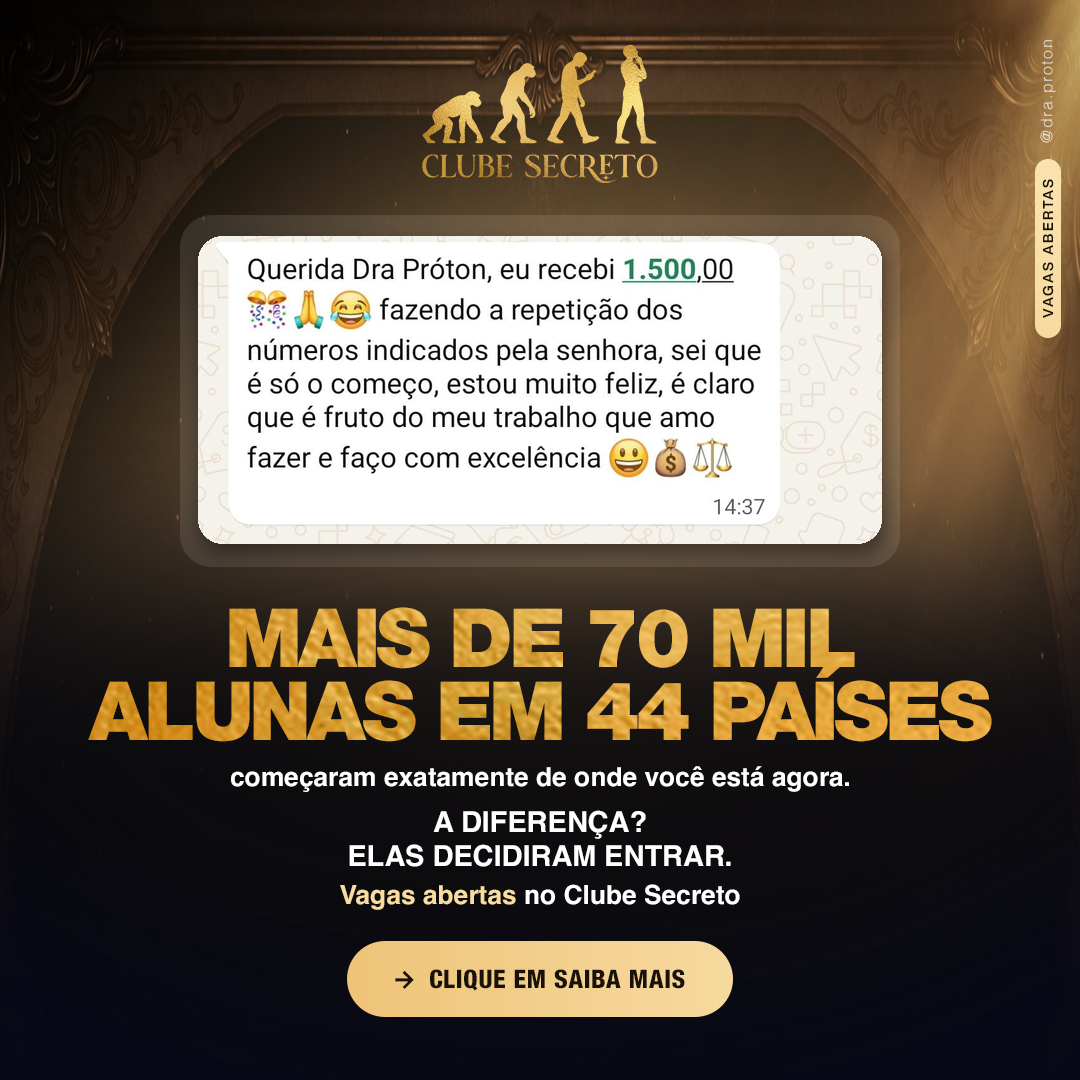
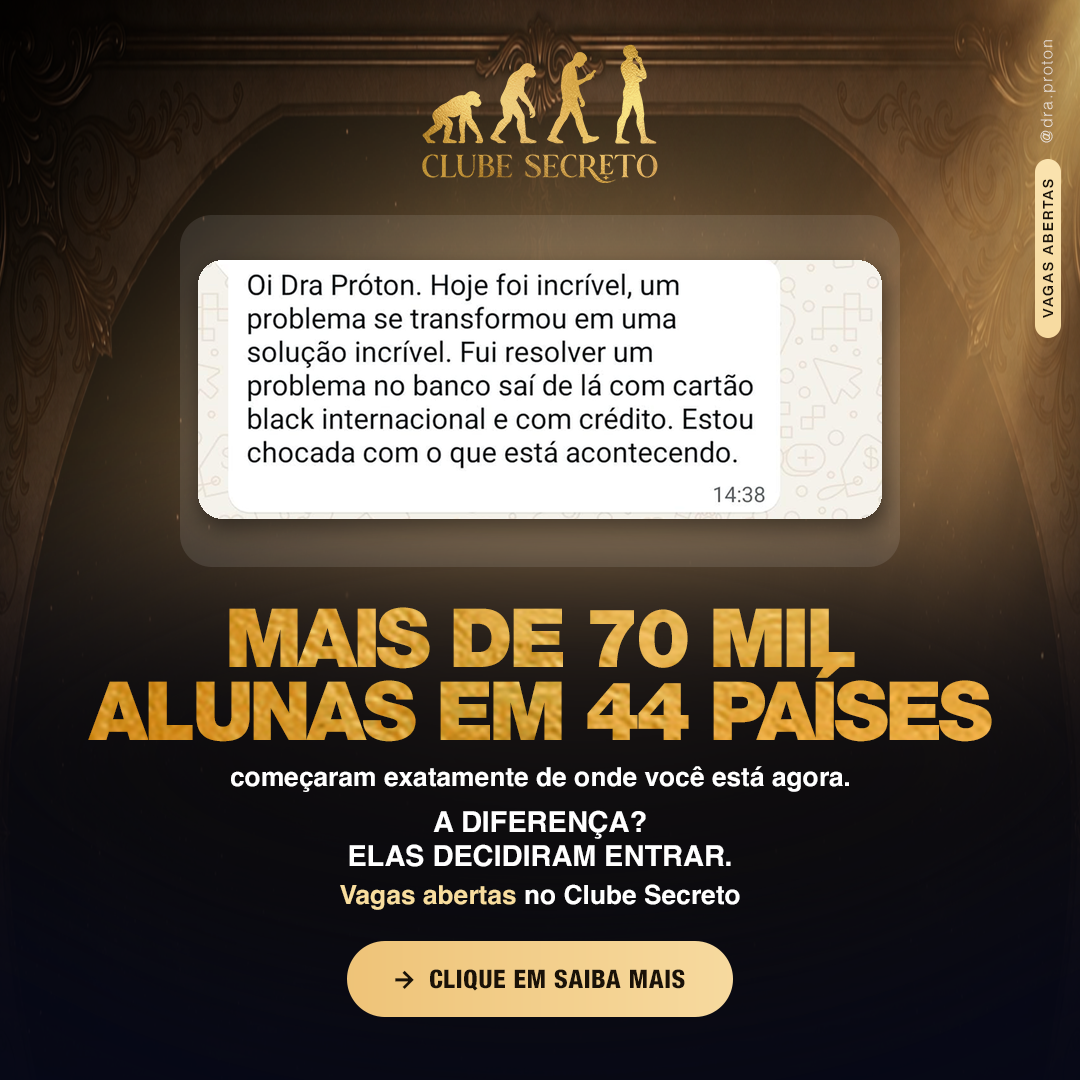
Remove depoimentos de risco para a Meta; arte 12 passa a usar depoimento sem valor
Claude-Session: https://claude.ai/code/session_015uJ2dwisfRgFhLAZFEbZ96

Changed region(s): [[0.1833, 0.2139, 0.825, 0.5194]]

diff --git a/clube-secreto-artes/LEIAME.md b/clube-secreto-artes/LEIAME.md
@@ -7,8 +7,10 @@ As demais artes não tinham valor e não foram mexidas.
 
 Arte 08: "menos de R$100 por mês" trocado por "menos de R$200 por mês".
 
-Arte 12 (depoimento): print de depoimento inserido no quadro. Recorte apenas da bolha da mensagem, sem cabecalho, nome, foto de perfil ou telefone.
+Arte 12 (depoimento): print de depoimento (Silvana) inserido no quadro. Recorte so da bolha da mensagem, sem cabecalho, nome, foto de perfil ou telefone.
 
-## depoimentos-nos-criativos/
-16 stories: criativos 04, 08, 11 e 15 x 4 depoimentos (Viviane/pix de 5 mil, Camila/25 mil no 3o dia, Patricia/autonoma de cidade pequena, Andrea/contrato de R$314 mil).
-O print entra na area livre abaixo do botao; nenhum texto ou elemento original foi alterado. Prints recortados so na bolha da mensagem (sem nome, foto ou telefone).
+## Depoimentos mantidos (menor risco de reprovacao na Meta)
+Mantidos: Silvana, Debora, Patricia. Removidos por risco (promessa de ganho, valores altos, dinheiro atribuido a mantra/codigo, citacao de divida): Ivete, Bia, Josiane (12 mil), conta 5 mil, causa 23 mil, Marcelo (30k), Ana (11 mil), Ana Paula, Marina, Viviane, Camila, Andrea.
+
+- depoimentos/: arte 12 com Silvana e Debora (feed e story).
+- depoimentos-nos-criativos/: criativos 04, 08, 11 e 15 com o depoimento da Patricia (story).
